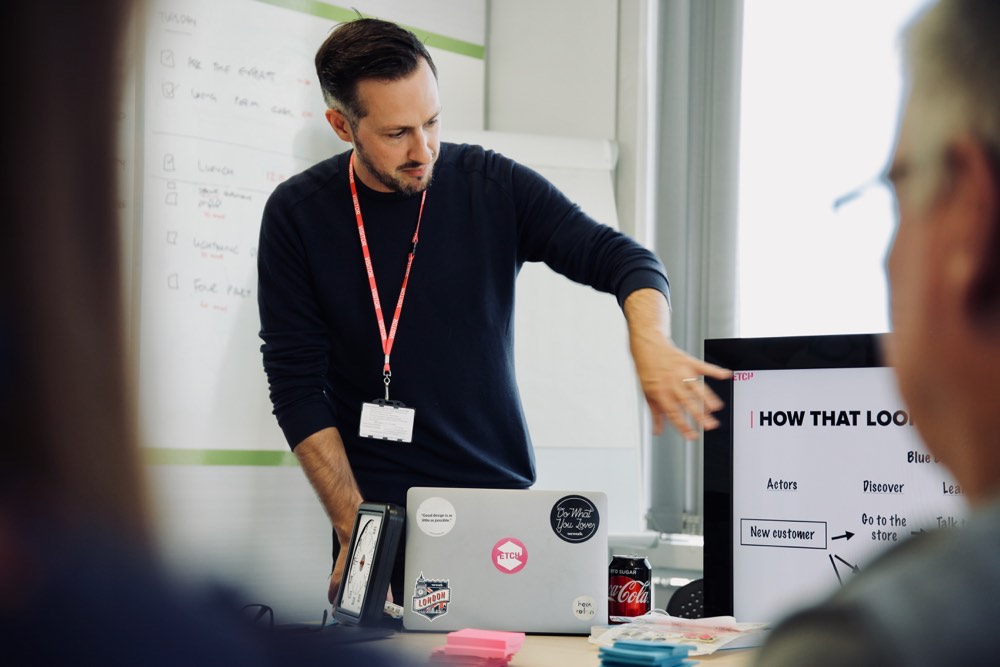
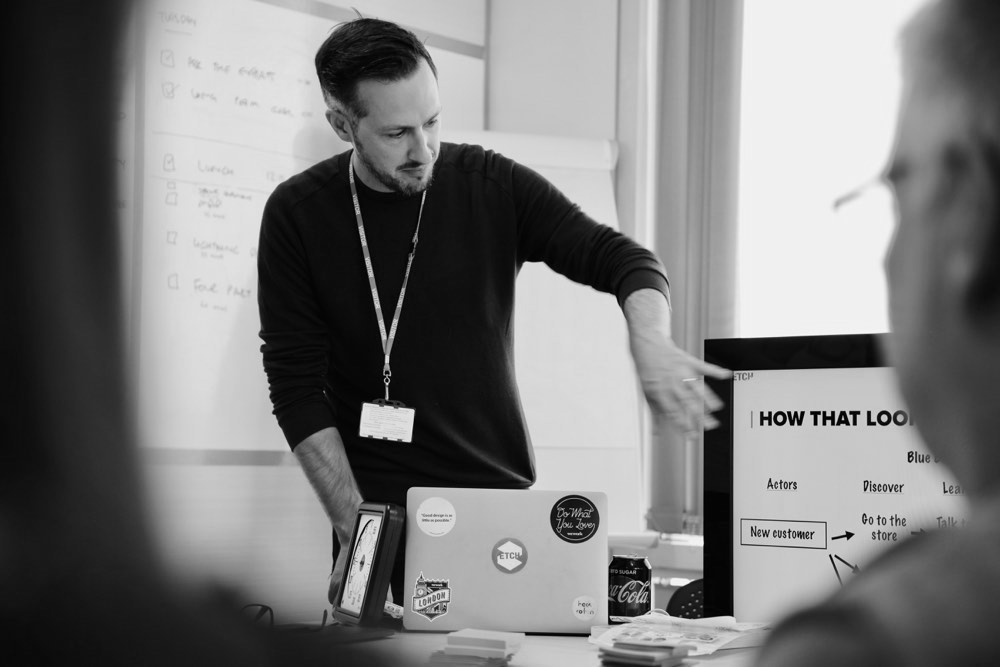
Content design

diff --git a/index.html b/index.html
@@ -46,16 +46,16 @@
         <div class="col-sm-8 col-sm-offset-2">
           <div class="row">
             <div class="col-sm-12">
-              <img class="img-responsive" src="images/rosschapman.jpg"/>
+              <img class="img-responsive" src="images/rosschapmanbw.jpg"/>
             </div>
           </div>
           <div class="row">
             <div class="col-sm-12">
-              <p>I'm Ross, a product designer and cyclist and this is my little space on the interwebnetz.</p>
+              <p>I'm Ross, and I'm a product designer and cyclist. This is my little space on the world wide web.</p>
               <hr/>
               <h2>Design</h2>
               <p>I'm product design lead at <a href="https://www.etchuk.com/" title="Etch (UK)">Etch</a>, where I'm building a world-class design capability, as well as running <a target="_blank" href="https://www.lovedesignsprints.com/" title="Love Design Sprints">Design Sprints and Innovation Training</a>.</p>
-              <p>Before that, I was the Senior User Experience Designer at <a href="https://medium.com/wiggledesign" title="Wiggle Design" target="_blank">Wiggle</a>, the online sports retailer, defining the experience of their global audience.</p>
+              <p>Before that, I was the Senior User Experience Designer at Wiggle, the online sports retailer, defining the experience for their customers across the world. Here's one such <a href="https://medium.com/@rosschapman/wiggle-checkout-ac2c9372e0d" target="_blank" title="Wiggle Checkout">innovation with the checkout</a>.</p>
               <p>I share what I know on <a href="https://medium.com/@rosschapman" title="Ross on Medium">Medium</a> and have had articles featured in <a href="https://medium.muz.li/what-happens-after-the-design-sprint-b19991fd9c8f" target="_blank" title="What happens after the Design Sprint? The Iteration Sprint">Muzli</a>, <a href="https://blog.prototypr.io/five-digital-product-designers-to-follow-on-instagram-b568d6ff5ef8" target="_blank" title="Product designers to follow on Instagram">Prototypr</a>, <a href="https://uxplanet.org/six-icebreaker-exercises-that-dont-suck-bc9e23ad5bba" target="_blank" title="Icebreaker exercises that do not suck">UX Planet</a> and the <a href="https://www.invisionapp.com/blog/pair-design/" target="_blank" title="Pair design: Guidelines for trying it out in your next design sprint">InVision Blog</a>.</p>
               <p>I haven't done much speaking recently, but have previously spoken about <a href="https://youtu.be/k_Jk2QJVuNU" target="_blank" title="Talk">collaborating with clients</a>, <a href="https://youtu.be/gtYP6XldHoM" target="_blank" title="mvp">minimum viable products</a> and <a href="https://youtu.be/b4jVt2J5V7U" title="UX design possible" targegt="_blank">what makes UX design possible</a>.</p>
               <hr/>
@@ -63,7 +63,7 @@
               <p>A keen cyclist, I'm at home riding on gravel and starting to get into competitive riding in CX and then Road. Follow my next adventures on <a href="https://www.komoot.com/user/249317154712" target="_blank" title="Komoot">Komoot</a>, <a href="https://www.strava.com/athletes/3551125" target="_blank" title="Ross on Strava">Strava</a> and <a target="_blank" href="https://www.instagram.com/rosschapman" title="Ross on Instagram">Instagram</a>.</p>
               <hr/>
               <h2>Newsletter</h2>
-              <p>For the past two years, I've curated a weekly email including some of the best content from the web. Sign up <a target="_blank" href="https://www.getrevue.co/profile/rosschapman" title="Ross on Revue"> to my weekly insights</a> on design, cycling and coolness.</p>
+              <p>For the past two years, I've curated a weekly email including some of the best content from the web. <a target="_blank" href="https://www.getrevue.co/profile/rosschapman" title="Ross on Revue">Sign up to my weekly insights</a> on design, cycling and coolness.</p>
               <hr/>
               <h2>Contact</h2>
               <p>I love to talk, so why not send me an email on <a href="mailto:rosspchapman@icloud.com" title="Ross on Email">rosspchapman@icloud.com</a> or use one of my social handles.</p>

diff --git a/files/css/theme.css b/files/css/theme.css
@@ -51,7 +51,7 @@ li {
 }
 
 a, a:hover {
-    color:#000;
+    color:#0000ff;
     text-decoration: underline;
 }
 
